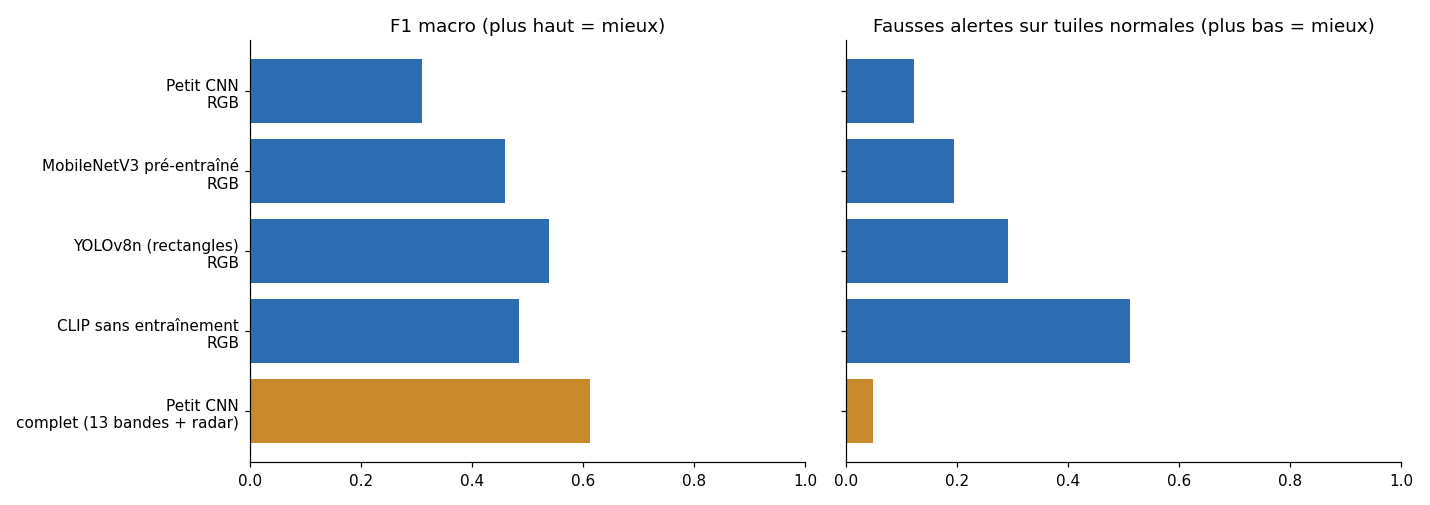
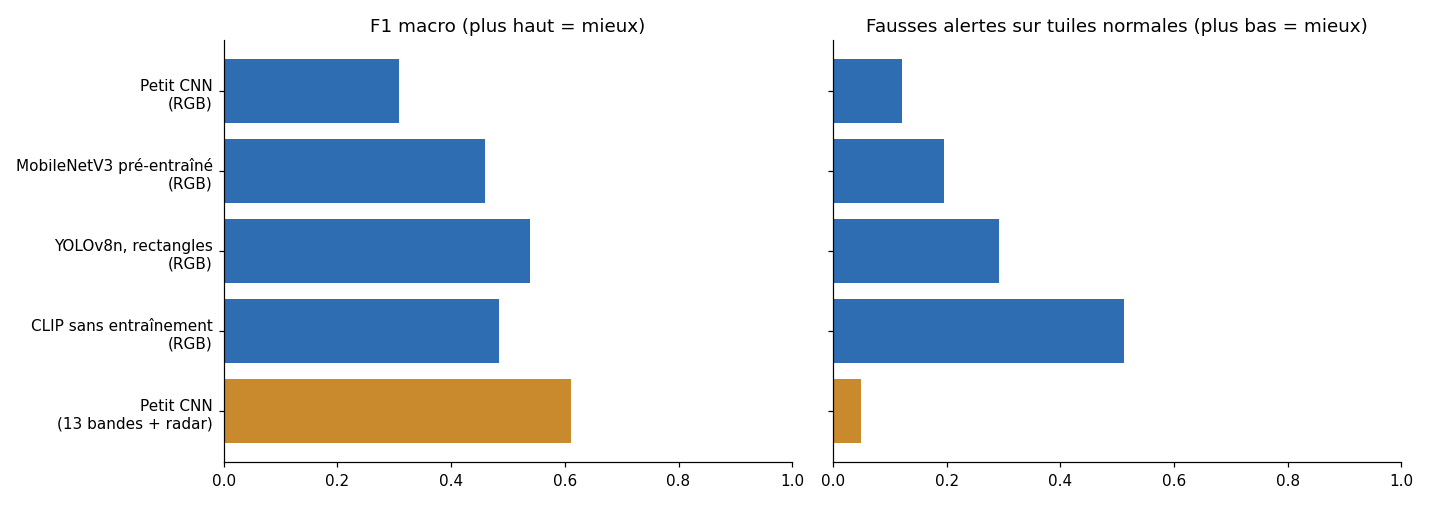
Retrait des tirets longs (vidéo, rapport, tableau comparatif)
Claude-Session: https://claude.ai/code/session_01UVRbaim2KzqkHfJnGuTQGN

diff --git a/src/tableau.py b/src/tableau.py
@@ -17,18 +17,18 @@ import matplotlib  # noqa: E402
 matplotlib.use("Agg")
 import matplotlib.pyplot as plt  # noqa: E402
 
-NOMS = {"cnn_rgb": "Petit CNN — RGB", "mobilenet_rgb": "MobileNetV3 pré-entraîné — RGB",
-        "yolo_rgb": "YOLOv8n (rectangles) — RGB", "clip_zero_shot": "CLIP sans entraînement — RGB",
-        "cnn_complet": "Petit CNN — complet (13 bandes + radar)"}
+NOMS = {"cnn_rgb": "Petit CNN (RGB)", "mobilenet_rgb": "MobileNetV3 pré-entraîné (RGB)",
+        "yolo_rgb": "YOLOv8n, rectangles (RGB)", "clip_zero_shot": "CLIP sans entraînement (RGB)",
+        "cnn_complet": "Petit CNN (13 bandes + radar)"}
 ORDRE = ["cnn_rgb", "mobilenet_rgb", "yolo_rgb", "clip_zero_shot", "cnn_complet"]
 
 
 def pct(v):
-    return "—" if v is None else f"{100 * v:.0f} %"
+    return "n.d." if v is None else f"{100 * v:.0f} %"
 
 
 def f2(v):
-    return "—" if v is None else f"{v:.2f}"
+    return "n.d." if v is None else f"{v:.2f}"
 
 
 def main():
@@ -45,7 +45,7 @@ def main():
         inc = r[m].get("inconnu", {}).get("auroc_test")
         lignes.append(f"| {NOMS[m]} | {f2(t['f1_macro'])} | {pct(t['INONDATION']['precision'])} / {pct(t['INONDATION']['rappel'])} "
                       f"| {pct(t['FEU']['precision'])} / {pct(t['FEU']['rappel'])} | {pct(t['fausses_alertes'])} "
-                      f"| {f2(inc)} | {taille} | {ms if ms is not None else '—'} |")
+                      f"| {f2(inc)} | {taille} | {ms if ms is not None else 'n.d.'} |")
     texte = ["# Tableau comparatif (test : pays jamais vus)", "",
              "Test : 35 inondations (Bolivie, Sri Lanka, Somalie), 4 feux (Grèce, Sardaigne, Australie ×2), "
              "41 tuiles normales. P = précision, R = rappel. Fausses alertes = part des tuiles normales "
@@ -60,7 +60,7 @@ def main():
 
     # Figure : F1 et fausses alertes par modèle
     fig, ax = plt.subplots(1, 2, figsize=(13, 4.6))
-    noms = [NOMS[m].replace(" — ", "\n") for m in modeles]
+    noms = [NOMS[m].replace(" (", "\n(") for m in modeles]
     couleurs = ["#c98a2e" if "complet" in m else "#2f6db3" for m in modeles]
     ax[0].barh(noms, [r[m]["test"]["f1_macro"] for m in modeles], color=couleurs)
     ax[0].set(title="F1 macro (plus haut = mieux)", xlim=(0, 1))
@@ -80,7 +80,7 @@ def main():
             for j in range(3):
                 a.text(j, i, c[i, j], ha="center", va="center", color="white" if c[i, j] > c.max() / 2 else "black")
         a.set_xticks(range(3), ["Normal", "Inond.", "Feu"]); a.set_yticks(range(3), ["Normal", "Inond.", "Feu"])
-        a.set_title(NOMS[m].replace(" — ", "\n"), fontsize=9); a.set_xlabel("prédit"); a.set_ylabel("vrai")
+        a.set_title(NOMS[m].replace(" (", "\n("), fontsize=9); a.set_xlabel("prédit"); a.set_ylabel("vrai")
     fig.tight_layout(); fig.savefig(DOCS / "figures" / "confusions.png", dpi=110)
 
 

diff --git a/src/video_demo.py b/src/video_demo.py
@@ -67,7 +67,7 @@ def main():
     for classe, n in [("INONDATION", 4), ("FEU", 3), ("NORMAL", 4), ("INCONNU", 2)]:
         l = index[(index["classe"] == classe) & index["ensemble"].isin(["test", "inconnu"]) & (index["s2"] != "")]
         choix += list(l.sample(min(n, len(l)), random_state=1).itertuples(index=False))
-    images = [vers_tableau(image_titre("One Look", "Une image, un regard, une décision — à bord du satellite"))] * 3
+    images = [vers_tableau(image_titre("One Look", "Une image, un regard, une décision. À bord du satellite."))] * 3
     for ligne in choix:
         ligne = ligne._asdict()
         s2 = lire(DATA / ligne["s2"]); s1 = lire(DATA / ligne["s1"]) if ligne["s1"] else None

diff --git a/docs/rapport.md b/docs/rapport.md
@@ -82,11 +82,11 @@ Apprentissage sur CPU : augmentation par retournements et rotations, poids de cl
 
 | Modèle | F1 macro | Inondation P / R | Feu P / R | Fausses alertes | Taille | ms / tuile |
 |---|---|---|---|---|---|---|
-| Petit CNN — RGB | 0,31 | 67 % / 17 % | 0 % / 0 % | 12 % | 0,2 Mo | 3,3 |
-| MobileNetV3 — RGB | 0,46 | 50 % / 20 % | 40 % / 50 % | 20 % | 6,1 Mo (1,9 en INT8) | 1,3 |
-| YOLOv8n — RGB | 0,54 | 64 % / 46 % | 40 % / 50 % | 29 % | 12,6 Mo (32 bits) | 40 |
-| CLIP sans entraînement — RGB | 0,48 | 61 % / 57 % | 20 % / 75 % | 51 % | 605 Mo | 148 (multi-cœurs) |
-| **Petit CNN — complet** | **0,61** | **95 % / 60 %** | 33 % / 25 % | **5 %** | **0,2 Mo** | **4,8** |
+| Petit CNN (RGB) | 0,31 | 67 % / 17 % | 0 % / 0 % | 12 % | 0,2 Mo | 3,3 |
+| MobileNetV3 (RGB) | 0,46 | 50 % / 20 % | 40 % / 50 % | 20 % | 6,1 Mo (1,9 en INT8) | 1,3 |
+| YOLOv8n (RGB) | 0,54 | 64 % / 46 % | 40 % / 50 % | 29 % | 12,6 Mo (32 bits) | 40 |
+| CLIP sans entraînement (RGB) | 0,48 | 61 % / 57 % | 20 % / 75 % | 51 % | 605 Mo | 148 (multi-cœurs) |
+| **Petit CNN (13 bandes + radar)** | **0,61** | **95 % / 60 %** | 33 % / 25 % | **5 %** | **0,2 Mo** | **4,8** |
 
 P = précision, R = rappel. Test : 35 inondations, 4 feux, 41 normales. Temps : ONNX Runtime, un seul cœur CPU. Tailles en INT8 pour les petits CNN.
 
@@ -99,7 +99,7 @@ P = précision, R = rappel. Test : 35 inondations, 4 feux, 41 normales. Temps : 
 |---|---|---|---|
 | Radar + optique | 0,61 | 95 % / 60 % | 5 % |
 | Optique seule | 0,59 | 100 % / 37 % | 2 % |
-| Radar seul | 0,23 | — / 0 % | 0 % |
+| Radar seul | 0,23 | aucune alerte / 0 % | 0 % |
 
 En radar seul, le modèle n'est jamais assez sûr pour alerter. Les 0 % de fausses alertes sur les 814 tuiles d'eau permanente (contre 54 % sans seuil) ne démontrent donc rien sur sa qualité : un modèle dédié au radar, avec son propre seuil, serait nécessaire.
 

diff --git a/docs/tableau_comparatif.md b/docs/tableau_comparatif.md
@@ -4,10 +4,10 @@ Test : 35 inondations (Bolivie, Sri Lanka, Somalie), 4 feux (Grèce, Sardaigne, 
 
 | Modèle | F1 macro | Inondation P / R | Feu P / R | Fausses alertes | Inconnu (AUROC) | Taille | ms / image (1 cœur) |
 |---|---|---|---|---|---|---|---|
-| Petit CNN — RGB | 0.31 | 67 % / 17 % | 0 % / 0 % | 12 % | 0.82 | 0.204 Mo (INT8) | 3.29 |
-| MobileNetV3 pré-entraîné — RGB | 0.46 | 50 % / 20 % | 40 % / 50 % | 20 % | 0.58 | 1.87 Mo (INT8) | 1.73 |
-| YOLOv8n (rectangles) — RGB | 0.54 | 64 % / 46 % | 40 % / 50 % | 29 % | — | 12.61 Mo | 40.2 |
-| CLIP sans entraînement — RGB | 0.48 | 61 % / 57 % | 20 % / 75 % | 51 % | — | 605.1 Mo | 148.2 |
-| Petit CNN — complet (13 bandes + radar) | 0.61 | 95 % / 60 % | 33 % / 25 % | 5 % | 1.00 | 0.207 Mo (INT8) | 4.84 |
+| Petit CNN (RGB) | 0.31 | 67 % / 17 % | 0 % / 0 % | 12 % | 0.82 | 0.204 Mo (INT8) | 3.29 |
+| MobileNetV3 pré-entraîné (RGB) | 0.46 | 50 % / 20 % | 40 % / 50 % | 20 % | 0.58 | 1.87 Mo (INT8) | 1.73 |
+| YOLOv8n, rectangles (RGB) | 0.54 | 64 % / 46 % | 40 % / 50 % | 29 % | n.d. | 12.61 Mo | 40.2 |
+| CLIP sans entraînement (RGB) | 0.48 | 61 % / 57 % | 20 % / 75 % | 51 % | n.d. | 605.1 Mo | 148.2 |
+| Petit CNN (13 bandes + radar) | 0.61 | 95 % / 60 % | 33 % / 25 % | 5 % | 1.00 | 0.207 Mo (INT8) | 4.84 |
 
 Radar seul (cnn_complet, optique masquée) sur 814 tuiles d'eau permanente dans le monde : 0 % de fausses alertes. Attention : en radar seul, ce modèle n'alerte jamais (rappel 0 sur les inondations de test, voir docs/resultats_capteurs.json) : ce chiffre ne prouve rien.
